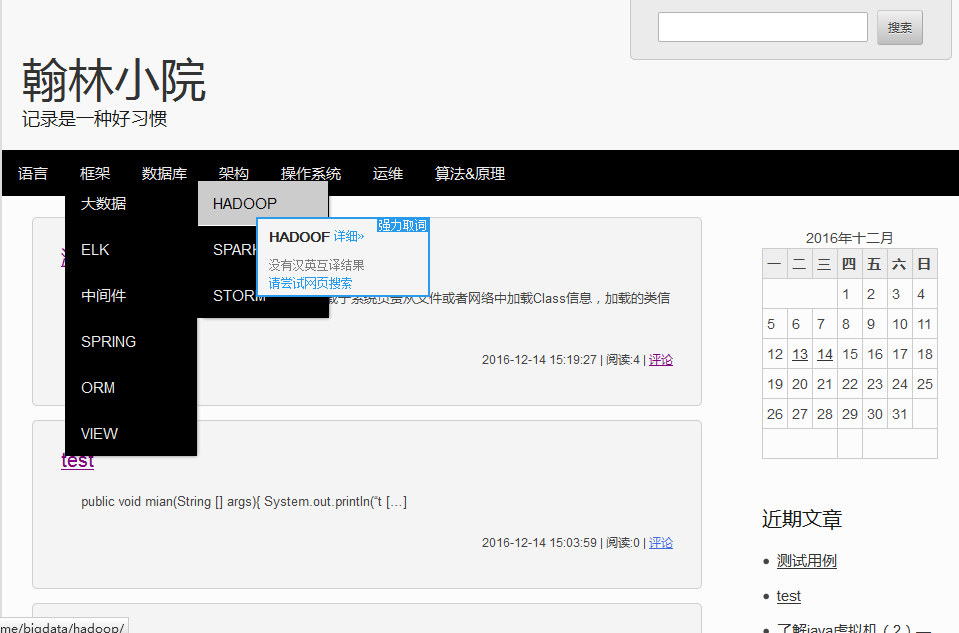
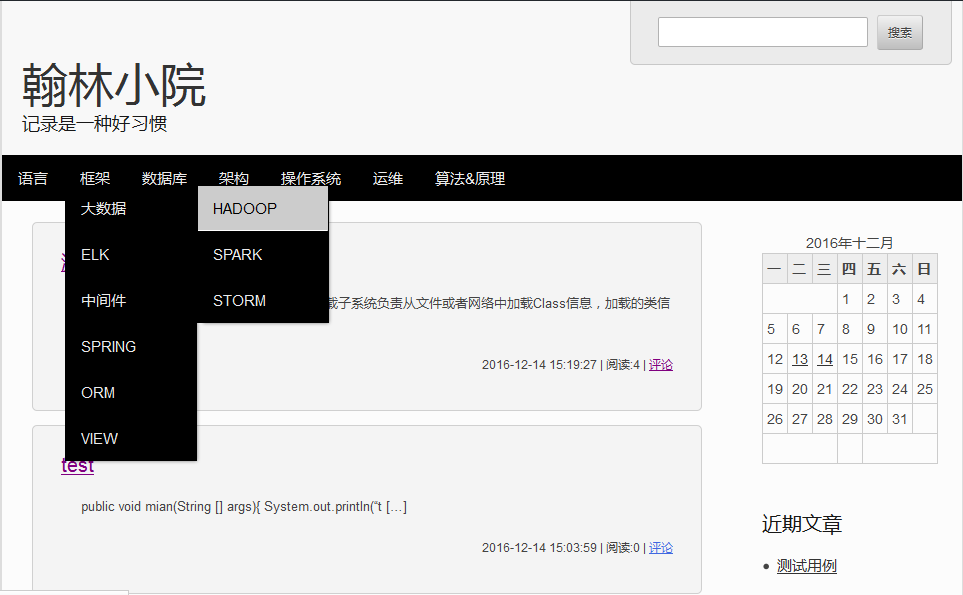
添加翻页

diff --git a/style.css b/style.css
@@ -739,6 +739,7 @@ img#headerlogo { margin-top: 70px;}
   overflow: hidden;
 }
 
+.posts-navigation { padding: 14px 28px;}
 .comment-navigation .nav-previous,
 .posts-navigation .nav-previous,
 .post-navigation .nav-previous {
@@ -753,3 +754,4 @@ img#headerlogo { margin-top: 70px;}
   text-align: right;
   width: 50%;
 }
+

diff --git a/content-single.php b/content-single.php
@@ -16,13 +16,20 @@
 				'after'  => '</p>',
 			) );
 		?>
-  </div><!--.entry-->
-  <p class="postmetadata"><?php 
+      <div class="posts-navigation">
+          <?php
+          previous_post_link( '<div class="nav-previous">%link</div>', '%title' );
+          next_post_link( '<div class="nav-next">%link</div>', '%title' );
+          ?>
+          <br>
+      </div>
+  <div>
+  <p class="postmetadata"><?php
 		_e('Posted on <time datetime="','huhanlin');
 		echo date('Y-m-d') . '">'; 
 		the_time('Y-m-d H:i:s');
-		_e('</time> by ','huhanlin');
-		the_author_link(); 
+		/*_e('</time> by ','huhanlin');
+		the_author_link(); */
 		echo '<br />';
 		_e('Categories: ','huhanlin');
 		the_category(', '); 
